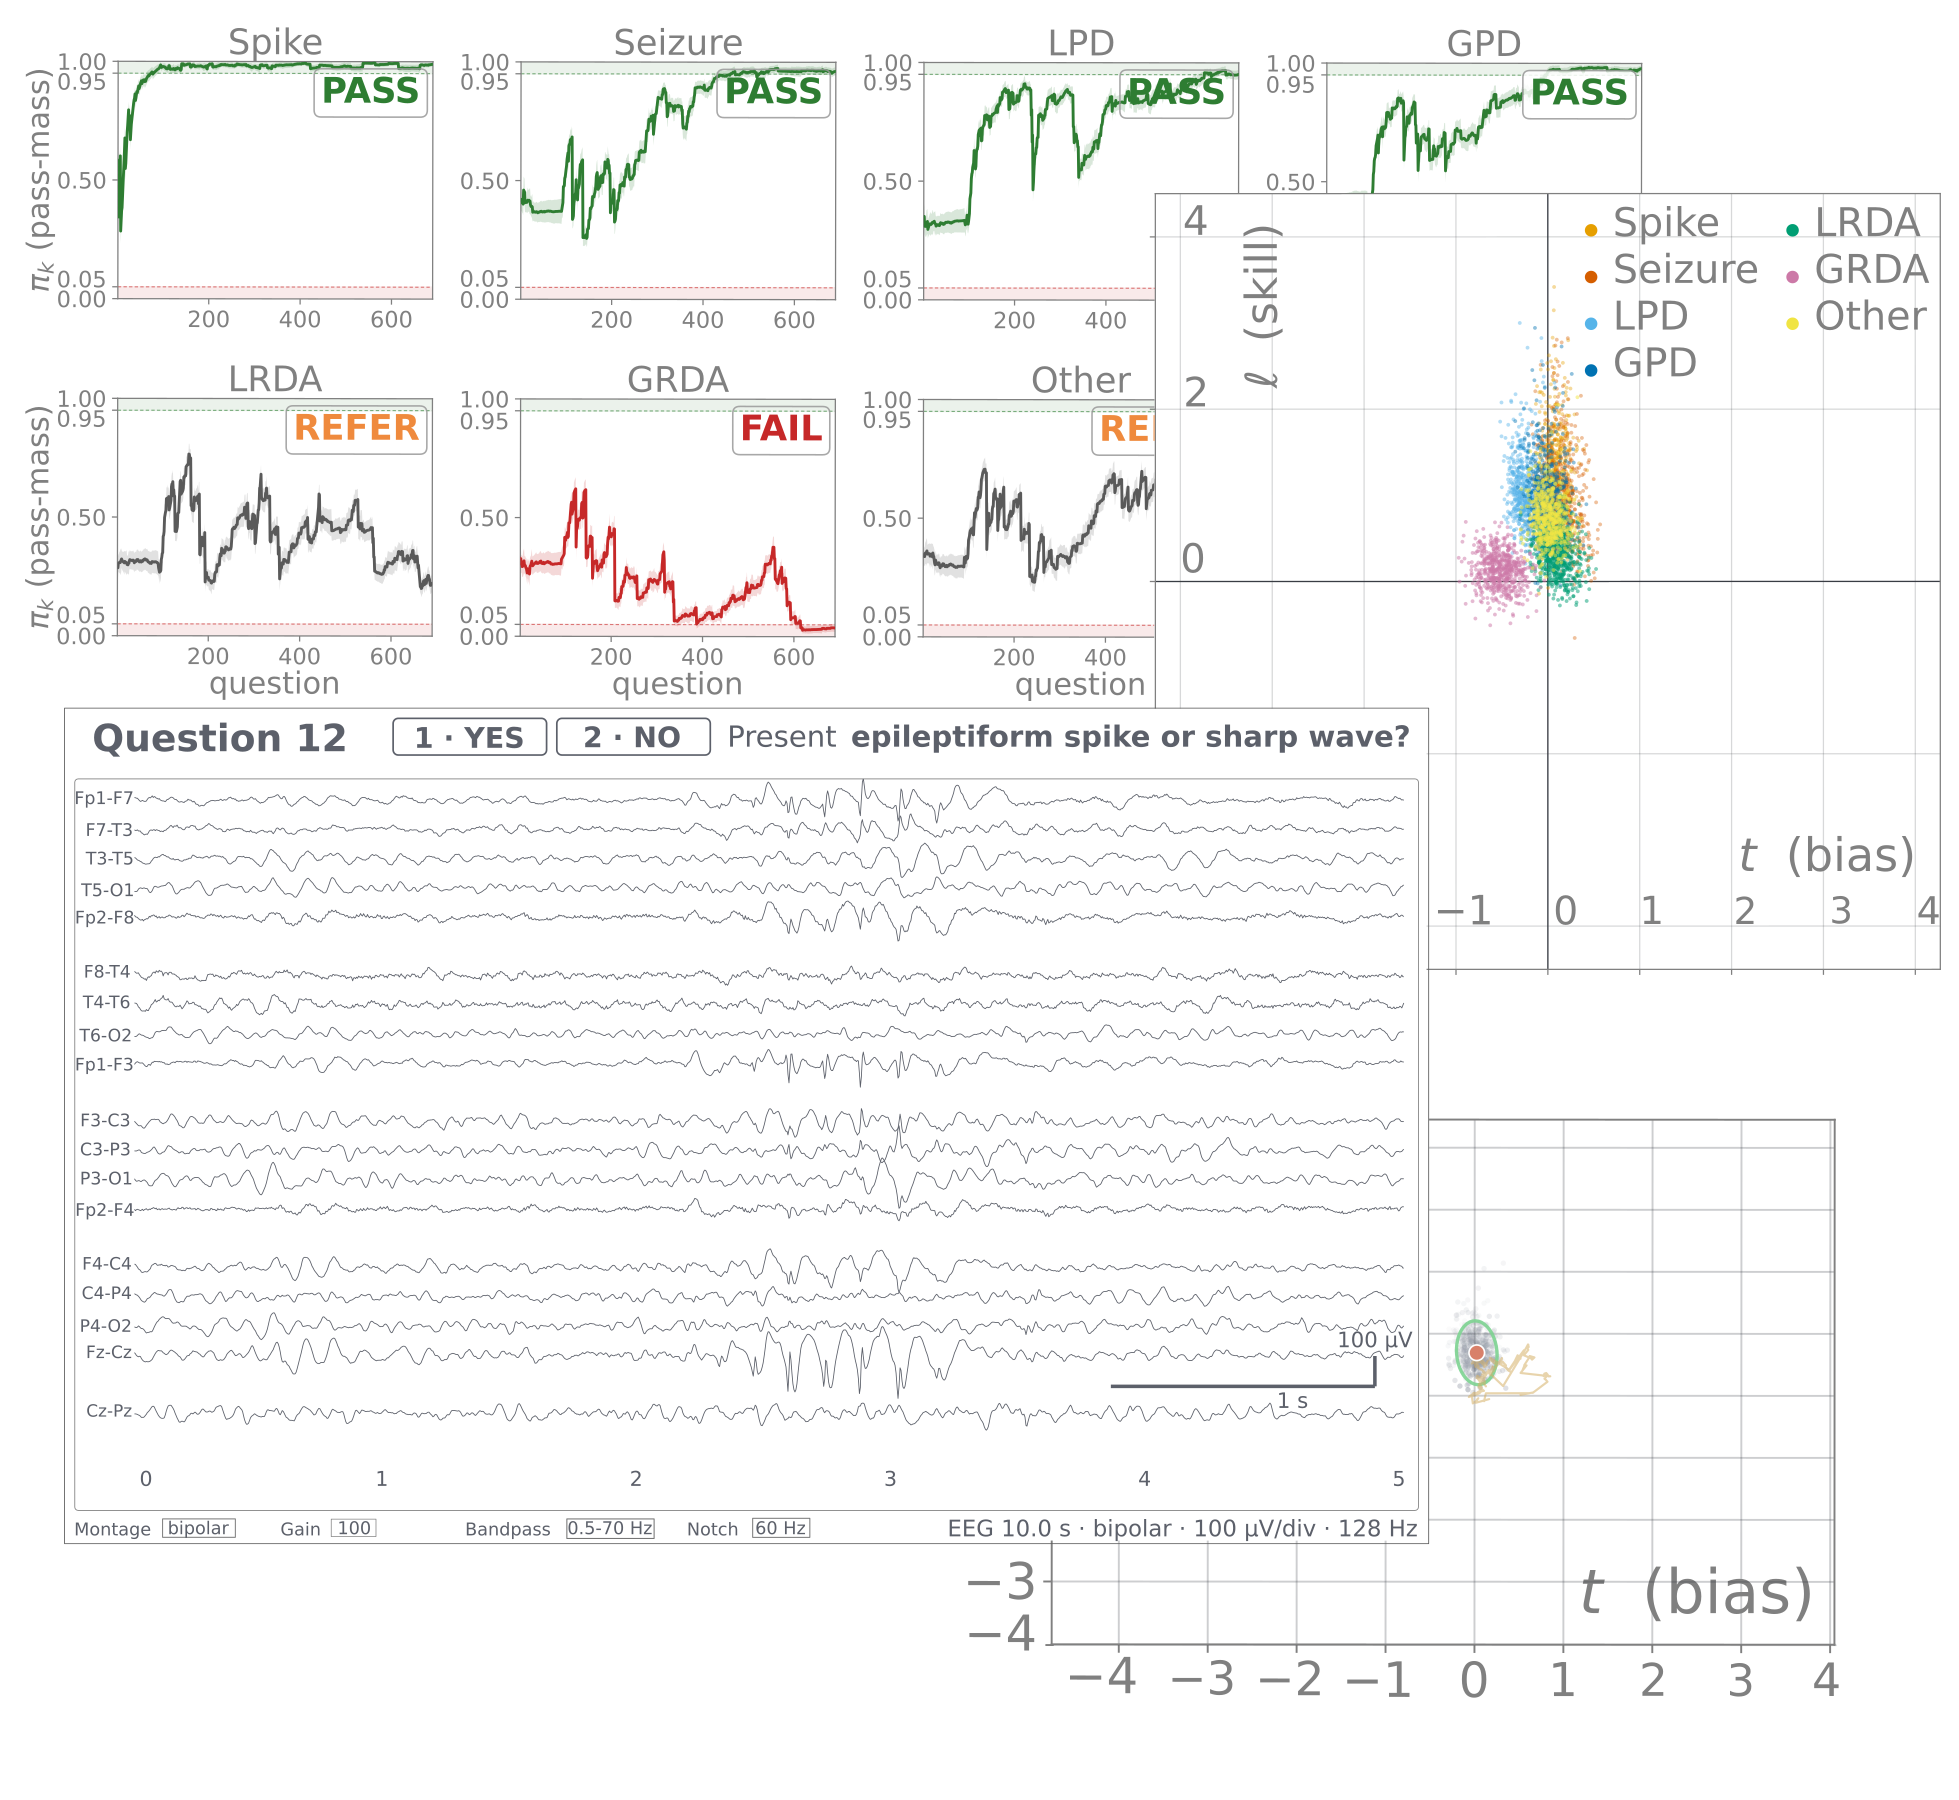
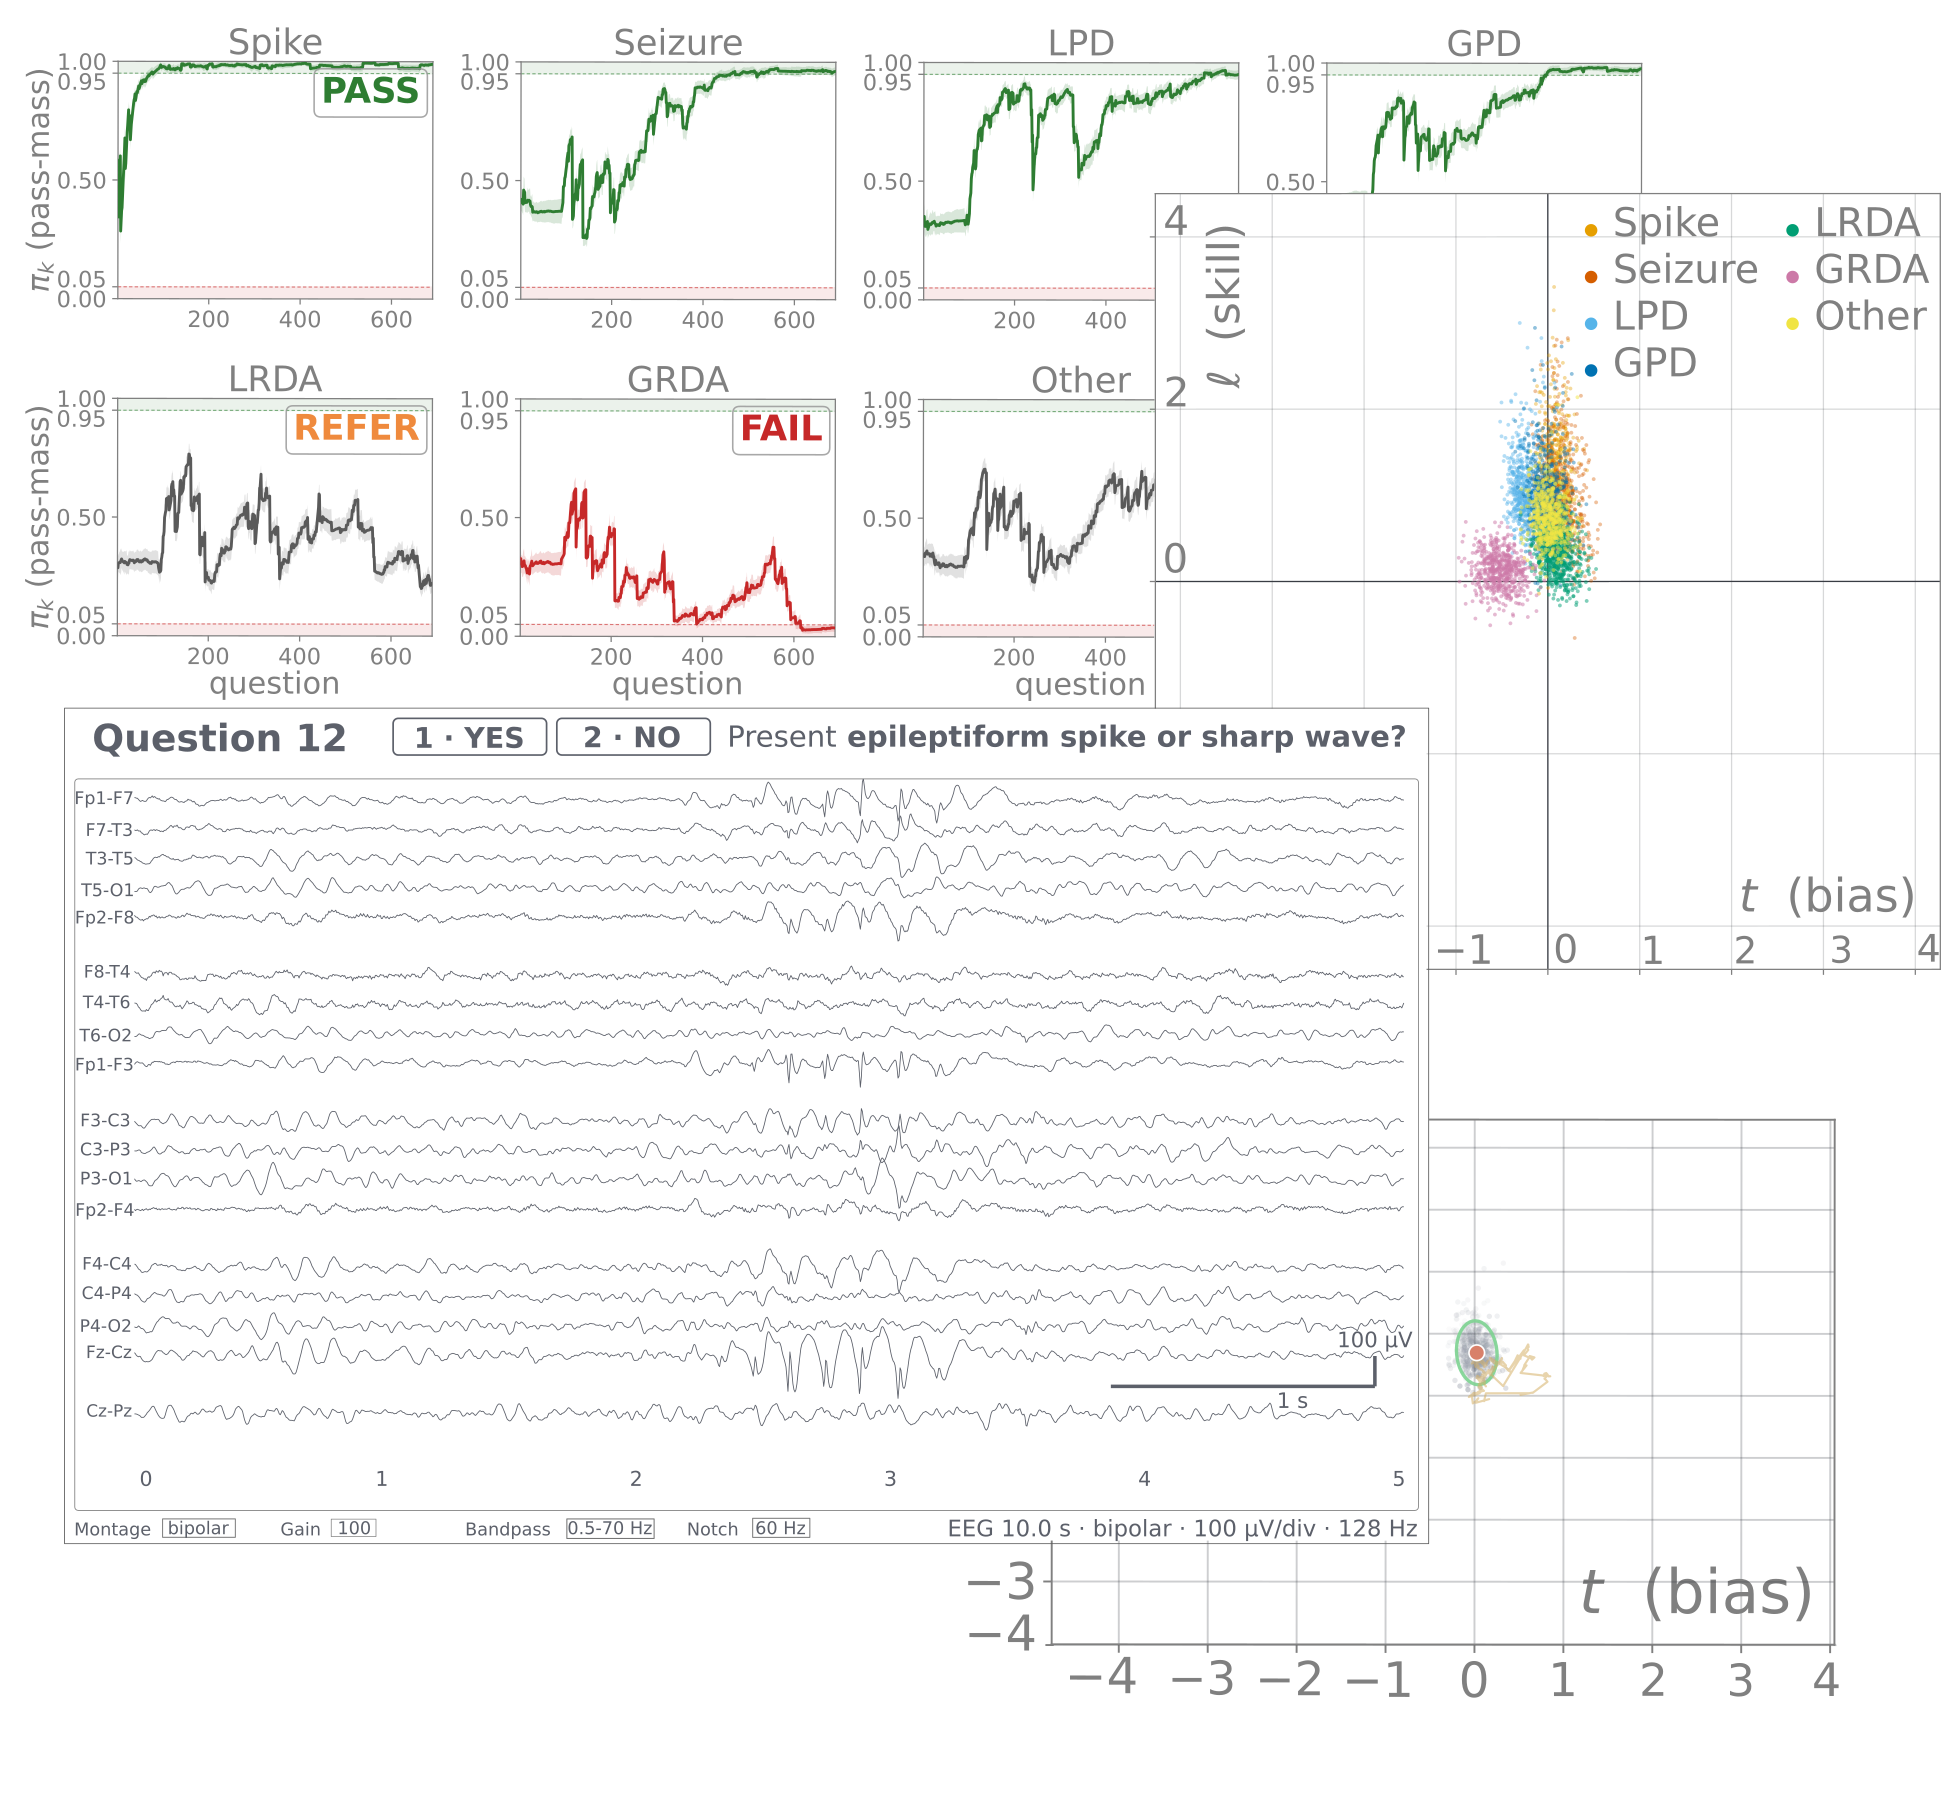
cortex_web: refresh auth collage PNG + add 48px bottom inset

diff --git a/cortex_web/apps/web/src/components/AuthFlow.tsx b/cortex_web/apps/web/src/components/AuthFlow.tsx
@@ -533,7 +533,7 @@ export function AuthFlow({ onAuthed }: { onAuthed: () => void }) {
         alt="" aria-hidden="true"
         style={{
           position: "absolute", left: 36, top: 36, width: "calc(64vw - 72px)",
-          height: "calc(100% - 36px)",
+          height: "calc(100% - 84px)",
           objectFit: "contain", objectPosition: "center",
           pointerEvents: "none", userSelect: "none",
         }}
